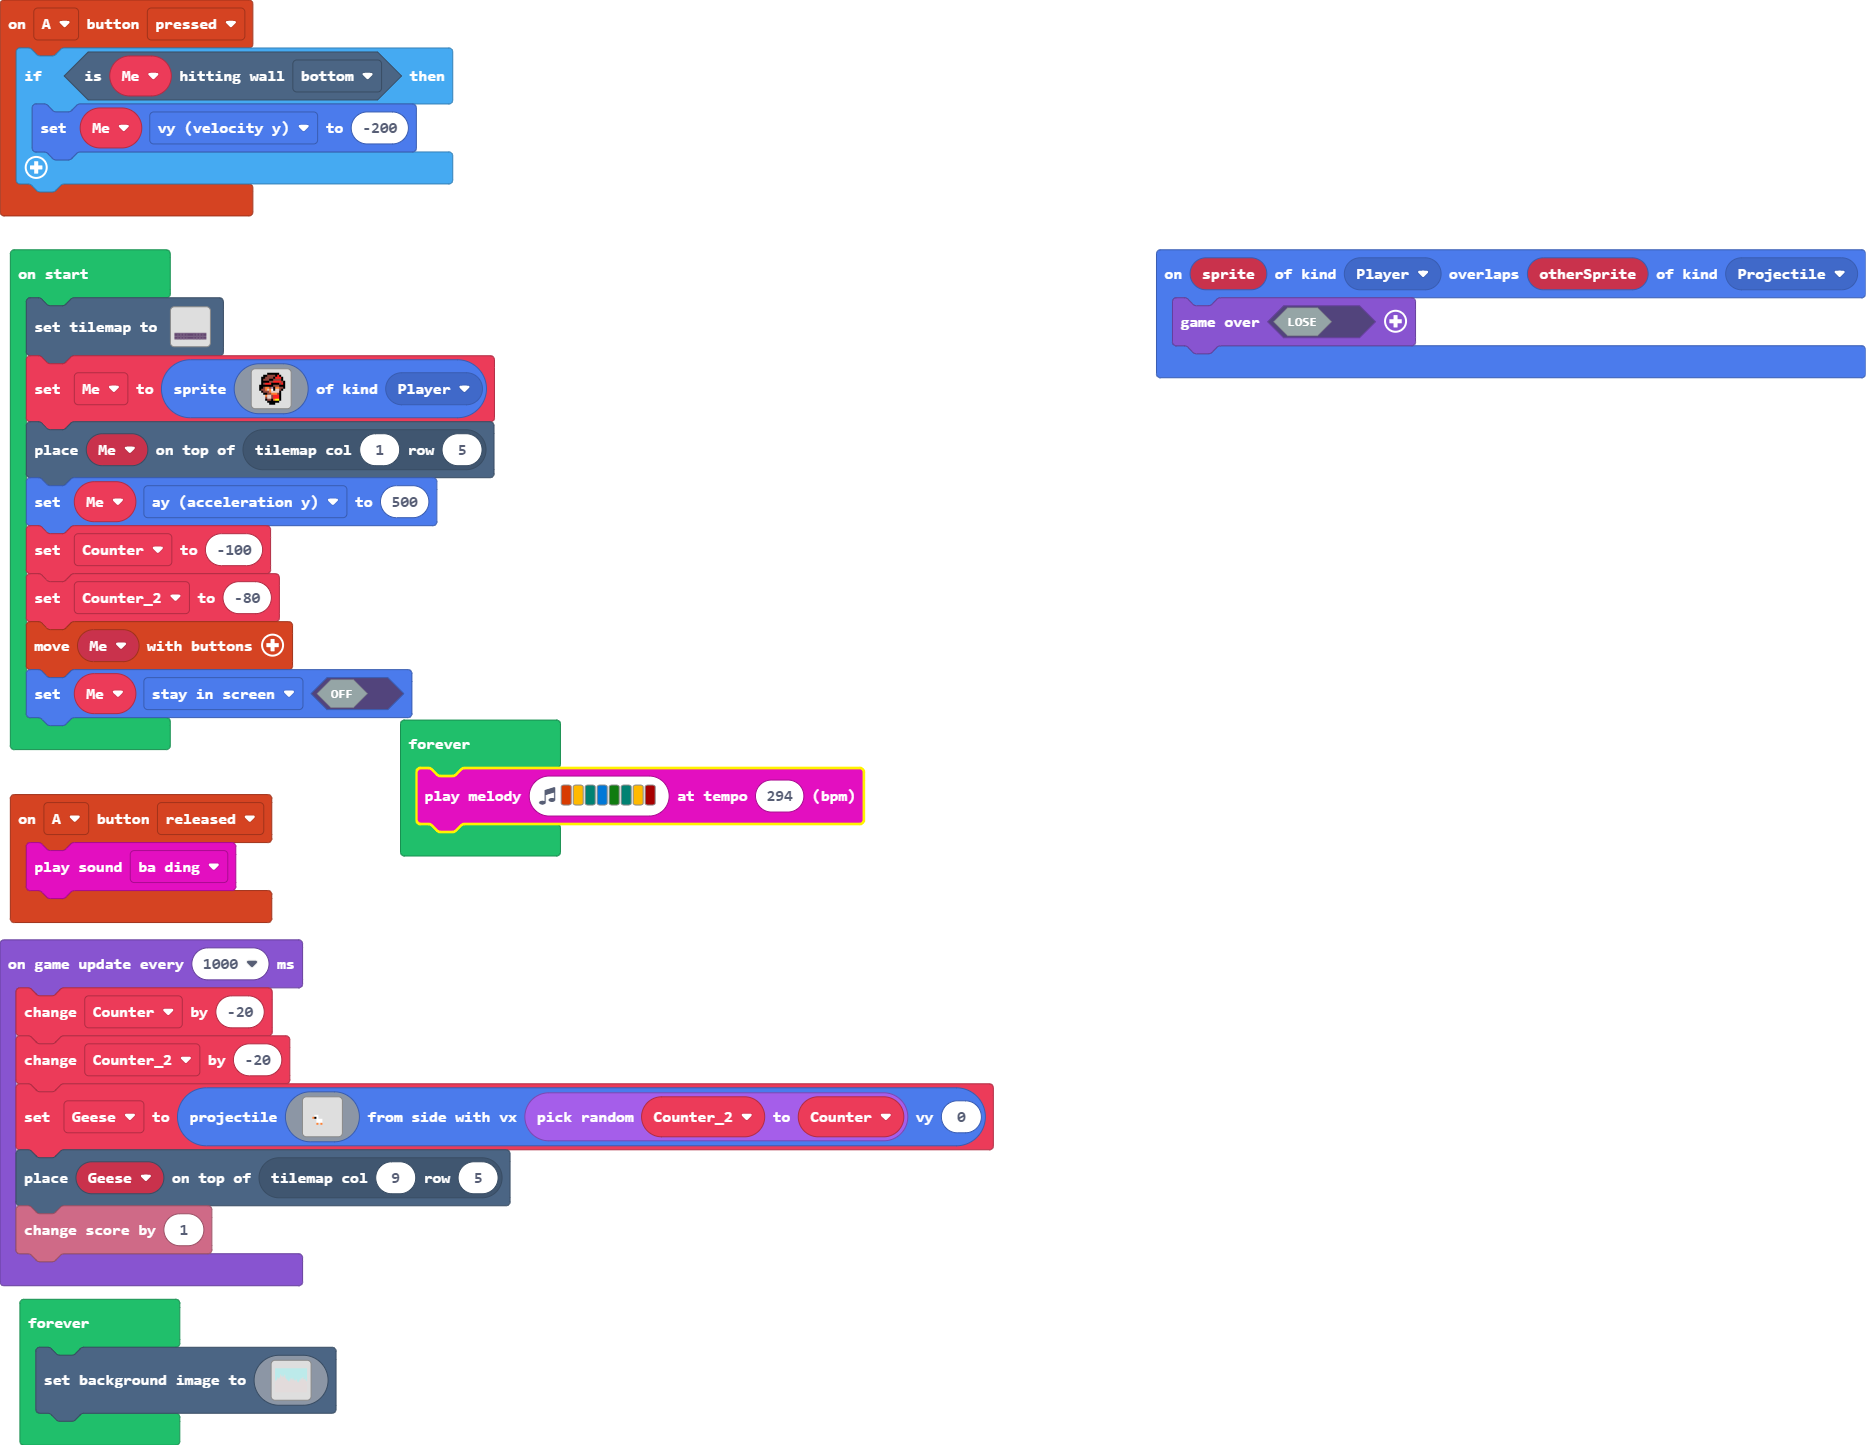
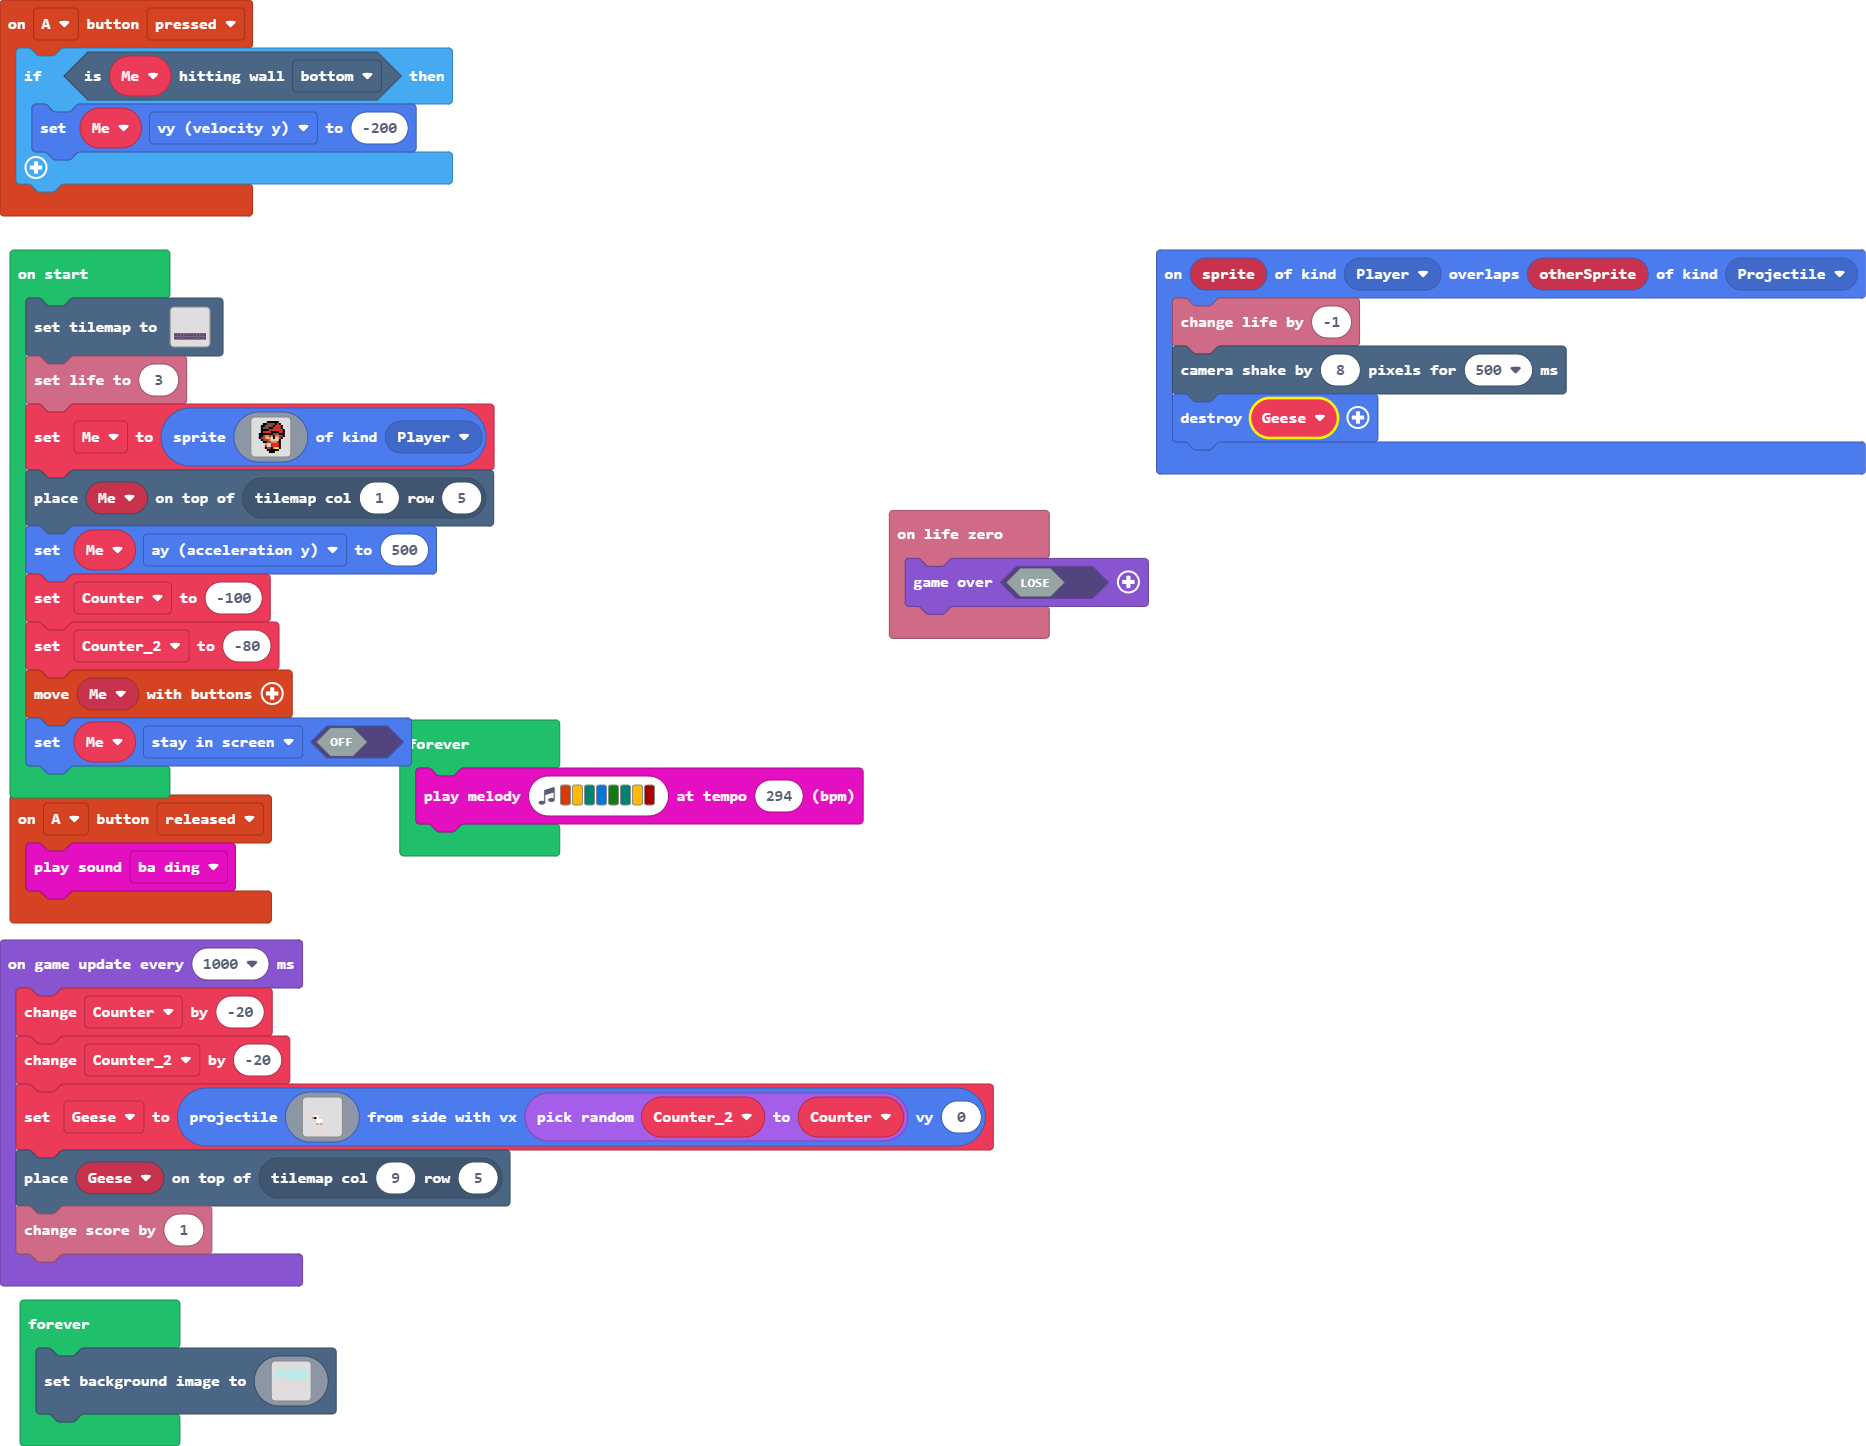
Update main.blocks, main.ts, tilemap.g.jres, tilemap.g.ts

diff --git a/tilemap.g.ts b/tilemap.g.ts
@@ -3,5 +3,31 @@ namespace myTiles {
     //% fixedInstance jres blockIdentity=images._tile
     export const transparency16 = image.ofBuffer(hex``);
 
+    helpers.registerTilemapFactory(function(name: string) {
+        switch(helpers.stringTrim(name)) {
[1 lines of base64/hex data omitted]
+. . . . . . . . . . 
+. . . . . . . . . . 
+. . . . . . . . . . 
+. . . . . . . . . . 
+. . . . . . . . . . 
+. . . . . . . . . . 
+2 2 2 2 2 2 2 2 2 2 
+2 2 2 2 2 2 2 2 2 2 
+`, [myTiles.transparency16,sprites.dungeon.darkGroundNorth], TileScale.Sixteen)
[1 lines of base64/hex data omitted]
+. . . . . . . . . . 
+. . . . . . . . . . 
+. . . . . . . . . . 
+. . . . . . . . . . 
+. . . . . . . . . . 
+. . . . . . . . . . 
+2 2 2 2 2 2 2 2 2 2 
+2 2 2 2 2 2 2 2 2 2 
+`, [myTiles.transparency16,sprites.dungeon.darkGroundNorth], TileScale.Sixteen)
+        }
+        return null;
+    })
+
 }
 // Auto-generated code. Do not edit.

diff --git a/main.ts b/main.ts
@@ -4,10 +4,15 @@ controller.A.onEvent(ControllerButtonEvent.Pressed, function () {
     }
 })
 sprites.onOverlap(SpriteKind.Player, SpriteKind.Projectile, function (sprite, otherSprite) {
-    game.over(false)
+    info.changeLifeBy(-1)
+    scene.cameraShake(8, 500)
+    Geese.destroy()
 })
 controller.A.onEvent(ControllerButtonEvent.Released, function () {
     music.baDing.play()
+})
+info.onLifeZero(function () {
+    game.over(false)
 })
 let Geese: Sprite = null
 let Me: Sprite = null
@@ -21,6 +26,7 @@ tiles.setTilemap(tiles.createTilemap(hex`0a0008000000000000000000000000000000000
     2 2 2 2 2 2 2 2 2 2 
     2 2 2 2 2 2 2 2 2 2 
     `, [myTiles.transparency16,sprites.dungeon.darkGroundNorth], TileScale.Sixteen))
+info.setLife(3)
 Me = sprites.create(img`
     . . . . . . f f f f f f . . . . 
     . . . . f f e e e e f 2 f . . . 
